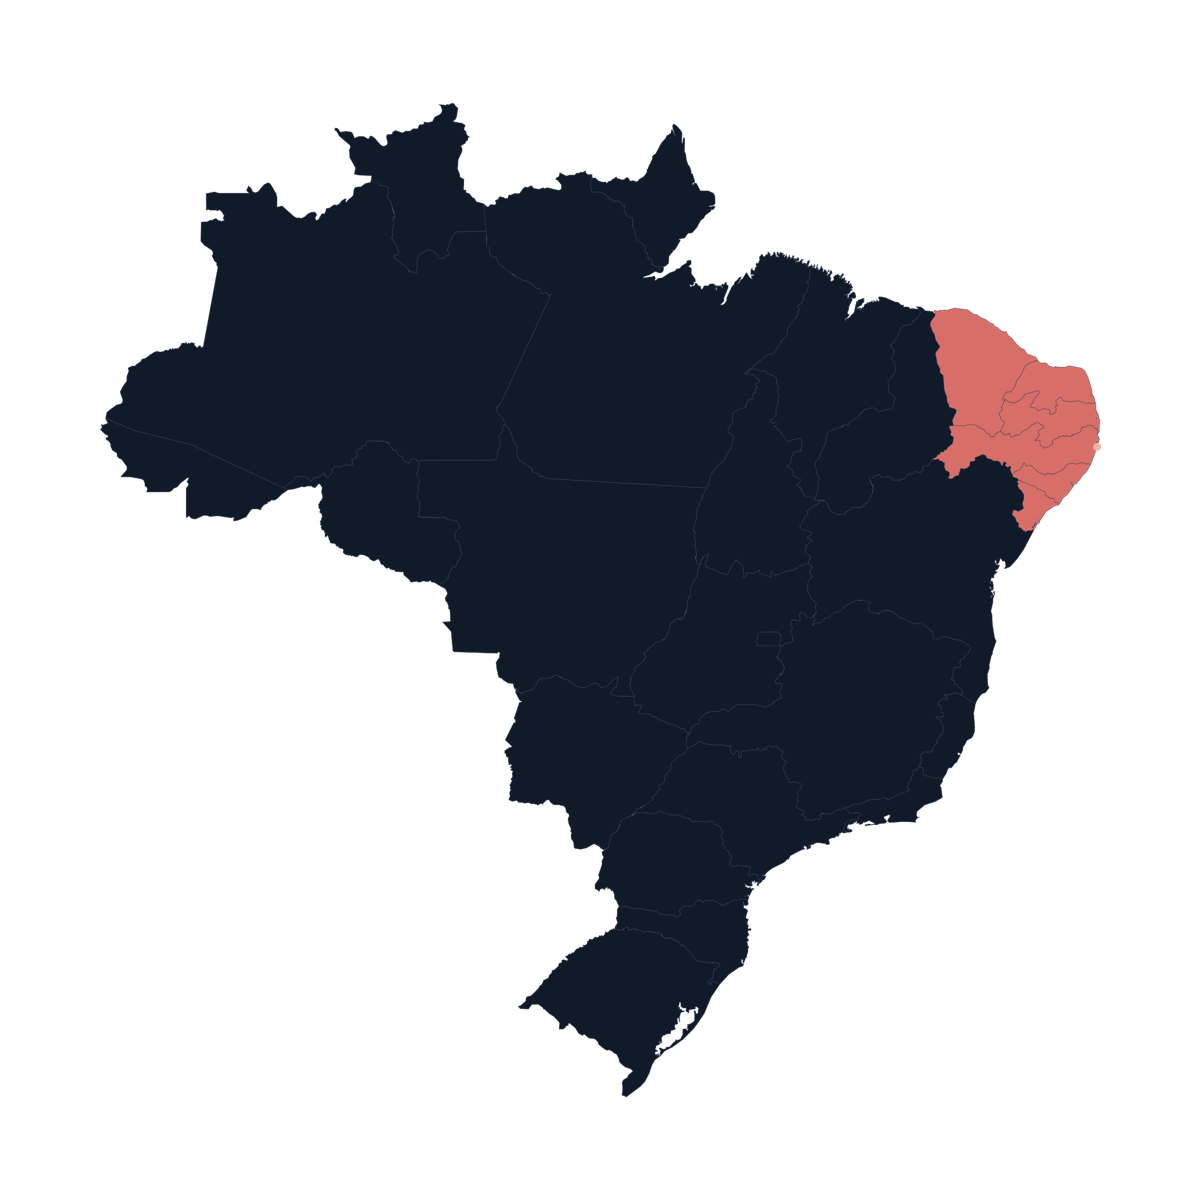
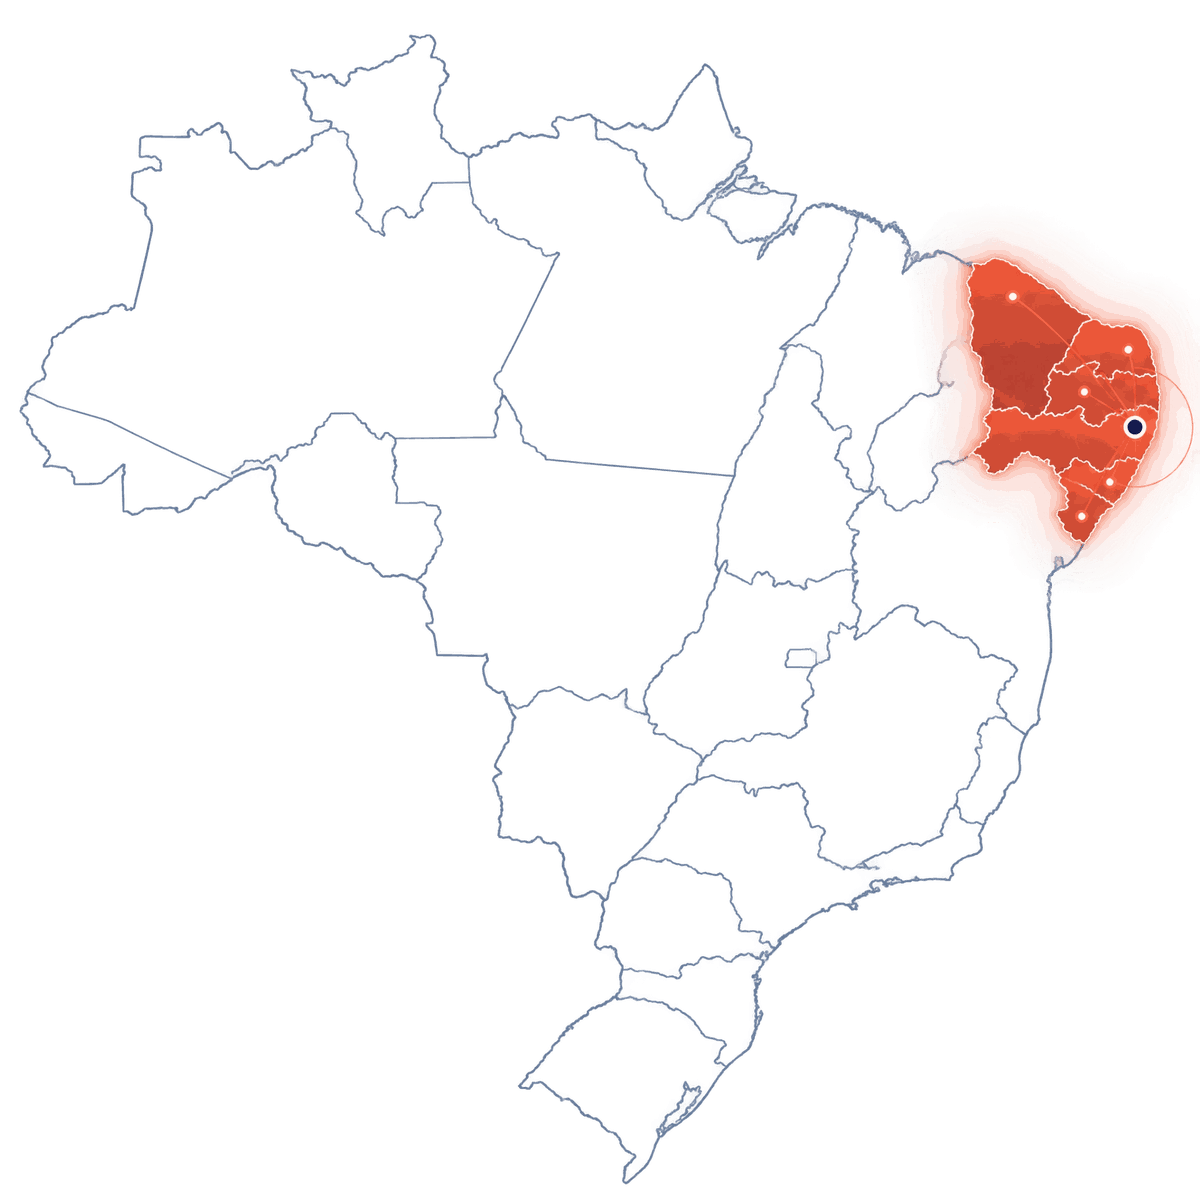
Nova foto da frota e mapa dos seis estados assentado no fundo escuro
A foto do patio passa a mostrar a frota informada pela empresa. A anterior
tinha 13 veiculos, incluindo um bau fechado que nao existe na frota e tres
carros junto as palmeiras, enquanto a lista logo abaixo dela fala em 9. Vale
para a home e para a secao de estrutura da pagina Sobre, que usam o mesmo
arquivo.

O mapa novo e desenhado para fundo escuro: contorno do pais em fio claro e
brilho quente sobre os seis estados. Ele estava dentro de um painel cinza-claro
criado para o mapa antigo, que era navy chapado; ali o contorno sumia e o
brilho virava mancha. O painel saiu, o mapa ganhou largura e um halo quente
atras da regiao atendida, e o selo de "6 estados" foi ancorado na altura do
destaque em vez do canto do painel.

diff --git a/src/pages/Logistica.tsx b/src/pages/Logistica.tsx
@@ -357,30 +357,36 @@ export default function Logistica() {
           </div>
 
           {/* mapa em destaque */}
-          <div className="relative mx-auto" style={{ maxWidth: "520px", marginBottom: "4rem" }}>
-            {/* Painel claro: o corpo do mapa é navy e sumiria contra o fundo
-                escuro da seção. Sobre o cinza-claro, o Brasil lê nítido e os
-                seis estados em laranja saltam. */}
-            <div
-              className="relative overflow-hidden rounded-2xl"
-              style={{
-                background: "#F4F5F9",
-                border: "1px solid rgba(255,255,255,0.12)",
-                boxShadow: "0 24px 60px rgba(0,0,0,0.4)",
-                padding: "1.5rem",
-              }}
-            >
+          <div className="relative mx-auto" style={{ maxWidth: "640px", marginBottom: "4rem" }}>
+            {/* Sem painel: o mapa é desenhado para fundo escuro, com contorno
+                claro e brilho quente. Sobre o cinza-claro que havia aqui antes,
+                o contorno do país sumia e o brilho virava mancha. */}
+            <div className="relative">
+              {/* halo atrás da região atendida, para assentar o mapa no fundo */}
+              <div
+                className="absolute pointer-events-none"
+                style={{
+                  top: "18%",
+                  right: "2%",
+                  width: "46%",
+                  height: "42%",
+                  background: "radial-gradient(circle, rgba(223,83,66,0.22) 0%, transparent 70%)",
+                  filter: "blur(28px)",
+                }}
+                aria-hidden="true"
+              />
               <img
                 src={mapa}
-                alt="Mapa do Brasil com Pernambuco, Alagoas, Sergipe, Paraíba, Rio Grande do Norte e Ceará destacados como a área atendida pela Quimitêxtil"
+                alt="Mapa do Brasil com Pernambuco, Alagoas, Sergipe, Paraíba, Rio Grande do Norte e Ceará destacados como a área atendida pela Quimitêxtil, e o centro de distribuição marcado em Vitória de Santo Antão"
+                className="relative"
                 style={{ width: "100%", height: "auto", display: "block" }}
               />
             </div>
             <div
               className="absolute flex items-center gap-2 bg-brand-orange text-white rounded-full"
               style={{
-                top: "-14px",
-                right: "-14px",
+                top: "14%",
+                right: "-6px",
                 padding: "0.6rem 1.1rem",
                 boxShadow: "0 10px 30px rgba(223,83,66,0.45)",
               }}
